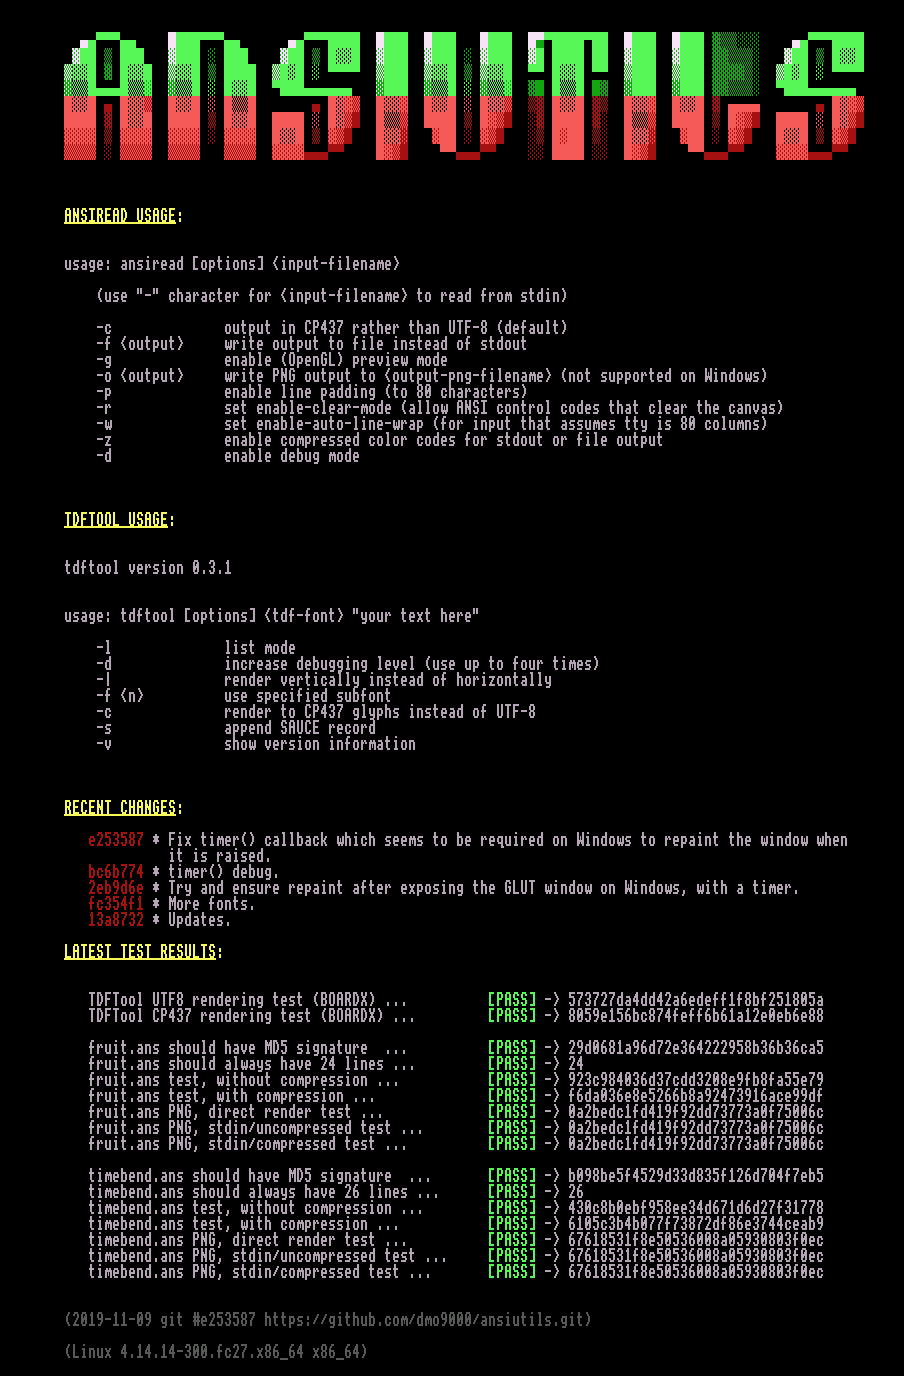
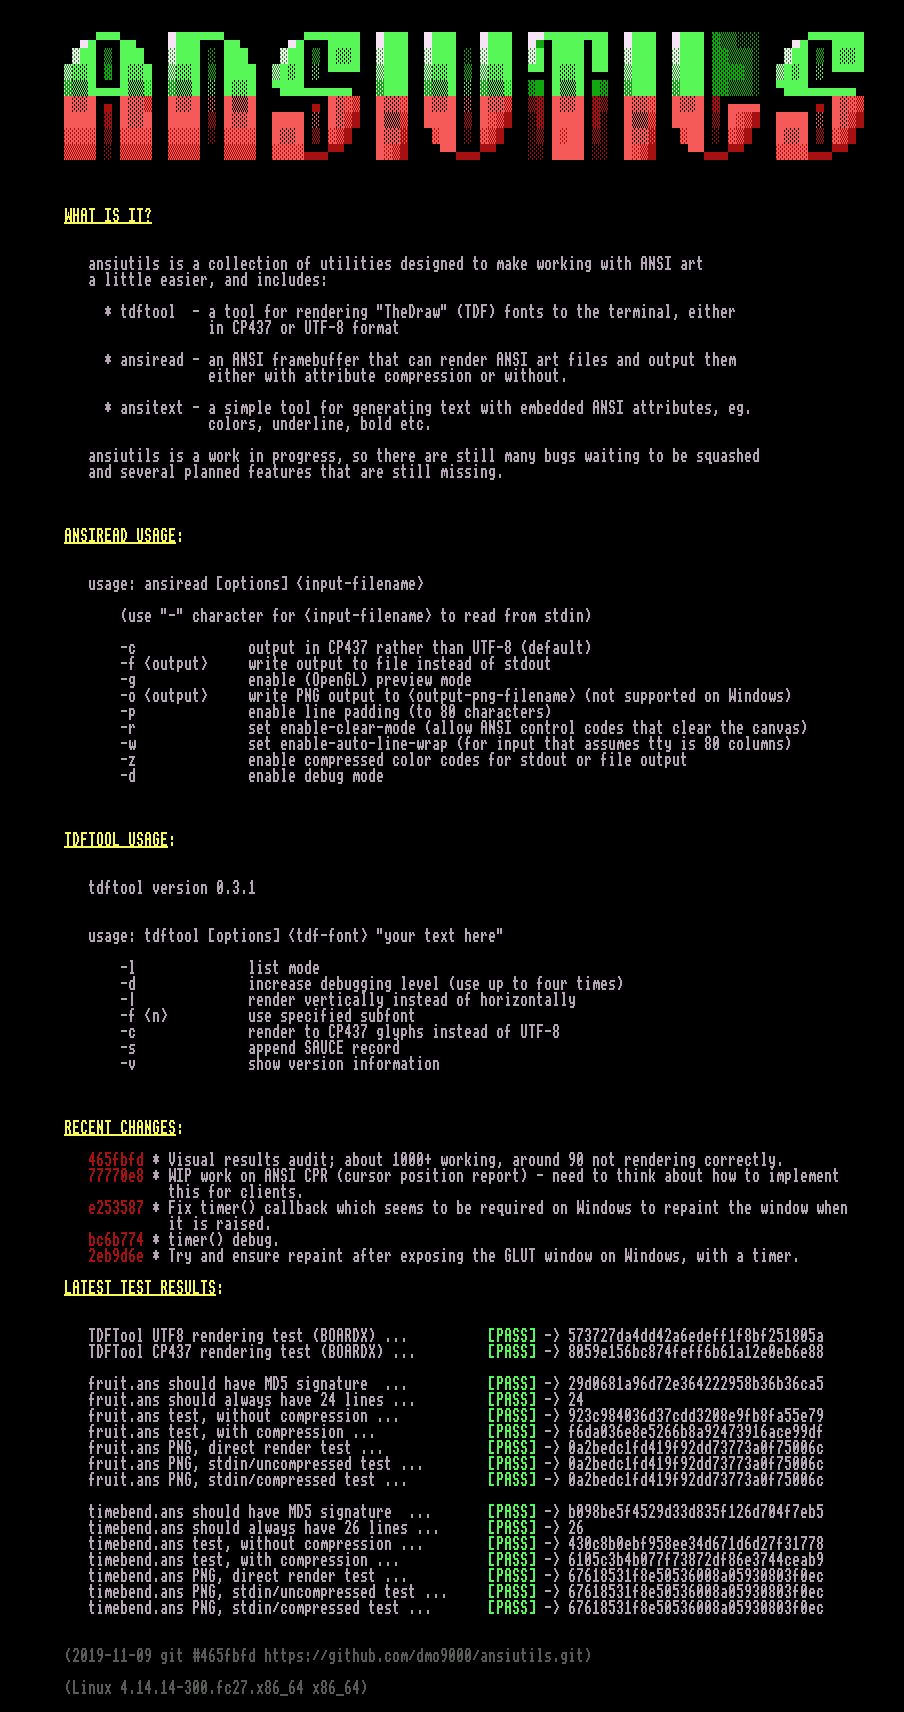
Added a blurb that describes what this all does.

Changed region(s): [[0.0619, 0.0, 0.9602, 1.0], [0.7743, 0.1562, 0.8053, 0.1875], [0.7434, 0.5938, 0.7743, 0.625]]

diff --git a/ansiutils.html b/ansiutils.html
@@ -22,51 +22,72 @@
         <span style="color:white;background-color:black;">                                                                                                      </span>   
 
 
+	<span style="color:yellow;"></span><span style="text-decoration:underline;color:yellow;"></span><span style="text-decoration:underline;font-weight:bold;color:yellow;">WHAT IS IT?</span><span style="font-weight:bold;color:yellow;"></span><span style="color:yellow;"></span>
+
+           
+           ansiutils is a collection of utilities designed to make working with ANSI art
+           a little easier, and includes: 
+           
+             * tdftool  - a tool for rendering &quot;TheDraw&quot; (TDF) fonts to the terminal, either
+                          in CP437 or UTF-8 format
+           
+             * ansiread - an ANSI framebuffer that can render ANSI art files and output them 
+                          either with attribute compression or without. 
+           
+             * ansitext - a simple tool for generating text with embedded ANSI attributes, eg. 
+                          colors, underline, bold etc. 
+           
+           ansiutils is a work in progress, so there are still many bugs waiting to be squashed
+           and several planned features that are still missing. 
+           
+
+
 	<span style="color:yellow;"></span><span style="text-decoration:underline;color:yellow;"></span><span style="text-decoration:underline;font-weight:bold;color:yellow;">ANSIREAD USAGE</span><span style="font-weight:bold;color:yellow;">:</span><span style="color:yellow;"></span>
 
-<span style="color:white;background-color:black;">                                                                                                  </span>
-<span style="color:white;background-color:black;">        usage: ansiread [options] &lt;input-filename&gt;</span>
-<span style="color:white;background-color:black;">        </span>
-<span style="color:white;background-color:black;">            (use &quot;-&quot; character for &lt;input-filename&gt; to read from stdin)</span>
-<span style="color:white;background-color:black;">        </span>
-<span style="color:white;background-color:black;">            -c              output in CP437 rather than UTF-8 (default)</span>
-<span style="color:white;background-color:black;">            -f &lt;output&gt;     write output to file instead of stdout</span>
-<span style="color:white;background-color:black;">            -g              enable (OpenGL) preview mode</span>
-<span style="color:white;background-color:black;">            -o &lt;output&gt;     write PNG output to &lt;output-png-filename&gt; (not supported on Windows)</span>
-<span style="color:white;background-color:black;">            -p              enable line padding (to 80 characters)</span>
-<span style="color:white;background-color:black;">            -r              set enable-clear-mode (allow ANSI control codes that clear the canvas)</span>
-<span style="color:white;background-color:black;">            -w              set enable-auto-line-wrap (for input that assumes tty is 80 columns)</span>
-<span style="color:white;background-color:black;">            -z              enable compressed color codes for stdout or file output</span>
-<span style="color:white;background-color:black;">            -d              enable debug mode</span>
-<span style="color:white;background-color:black;">        </span>
-<span style="color:white;background-color:black;">        </span>
+<span style="color:white;background-color:black;">                                                                                                     </span>
+<span style="color:white;background-color:black;">           usage: ansiread [options] &lt;input-filename&gt;</span>
+<span style="color:white;background-color:black;">           </span>
+<span style="color:white;background-color:black;">               (use &quot;-&quot; character for &lt;input-filename&gt; to read from stdin)</span>
+<span style="color:white;background-color:black;">           </span>
+<span style="color:white;background-color:black;">               -c              output in CP437 rather than UTF-8 (default)</span>
+<span style="color:white;background-color:black;">               -f &lt;output&gt;     write output to file instead of stdout</span>
+<span style="color:white;background-color:black;">               -g              enable (OpenGL) preview mode</span>
+<span style="color:white;background-color:black;">               -o &lt;output&gt;     write PNG output to &lt;output-png-filename&gt; (not supported on Windows)</span>
+<span style="color:white;background-color:black;">               -p              enable line padding (to 80 characters)</span>
+<span style="color:white;background-color:black;">               -r              set enable-clear-mode (allow ANSI control codes that clear the canvas)</span>
+<span style="color:white;background-color:black;">               -w              set enable-auto-line-wrap (for input that assumes tty is 80 columns)</span>
+<span style="color:white;background-color:black;">               -z              enable compressed color codes for stdout or file output</span>
+<span style="color:white;background-color:black;">               -d              enable debug mode</span>
+<span style="color:white;background-color:black;">           </span>
+<span style="color:white;background-color:black;">           </span>
 
 	<span style="color:yellow;"></span><span style="text-decoration:underline;color:yellow;"></span><span style="text-decoration:underline;font-weight:bold;color:yellow;">TDFTOOL USAGE</span><span style="font-weight:bold;color:yellow;">:</span><span style="color:yellow;"></span>
 
-<span style="color:white;background-color:black;">        </span>
-<span style="color:white;background-color:black;">        tdftool version 0.3.1</span>
-<span style="color:white;background-color:black;">        </span>
-<span style="color:white;background-color:black;">                                                                           </span>
-<span style="color:white;background-color:black;">        usage: tdftool [options] &lt;tdf-font&gt; &quot;your text here&quot;</span>
-<span style="color:white;background-color:black;">        </span>
-<span style="color:white;background-color:black;">            -l              list mode</span>
-<span style="color:white;background-color:black;">            -d              increase debugging level (use up to four times)</span>
-<span style="color:white;background-color:black;">            -|              render vertically instead of horizontally</span>
-<span style="color:white;background-color:black;">            -f &lt;n&gt;          use specified subfont</span>
-<span style="color:white;background-color:black;">            -c              render to CP437 glyphs instead of UTF-8</span>
-<span style="color:white;background-color:black;">            -s              append SAUCE record</span>
-<span style="color:white;background-color:black;">            -v              show version information</span>
-<span style="color:white;background-color:black;">        </span>
-<span style="color:white;background-color:black;">        </span>
+<span style="color:white;background-color:black;">           </span>
+<span style="color:white;background-color:black;">           tdftool version 0.3.1</span>
+<span style="color:white;background-color:black;">           </span>
+<span style="color:white;background-color:black;">                                                                              </span>
+<span style="color:white;background-color:black;">           usage: tdftool [options] &lt;tdf-font&gt; &quot;your text here&quot;</span>
+<span style="color:white;background-color:black;">           </span>
+<span style="color:white;background-color:black;">               -l              list mode</span>
+<span style="color:white;background-color:black;">               -d              increase debugging level (use up to four times)</span>
+<span style="color:white;background-color:black;">               -|              render vertically instead of horizontally</span>
+<span style="color:white;background-color:black;">               -f &lt;n&gt;          use specified subfont</span>
+<span style="color:white;background-color:black;">               -c              render to CP437 glyphs instead of UTF-8</span>
+<span style="color:white;background-color:black;">               -s              append SAUCE record</span>
+<span style="color:white;background-color:black;">               -v              show version information</span>
+<span style="color:white;background-color:black;">           </span>
+<span style="color:white;background-color:black;">           </span>
 
 	<span style="color:yellow;"></span><span style="text-decoration:underline;color:yellow;"></span><span style="text-decoration:underline;font-weight:bold;color:yellow;">RECENT CHANGES</span><span style="font-weight:bold;color:yellow;">:</span><span style="color:yellow;"></span>
 
+<span style="color:white;background-color:black;">           </span><span style="color:red;background-color:black;">465fbfd</span><span style="color:white;background-color:black;"> * Visual results audit; about 1000+ working, around 90 not rendering correctly.</span>
+<span style="color:white;background-color:black;">           </span><span style="color:red;background-color:black;">77770e8</span><span style="color:white;background-color:black;"> * WIP work on ANSI CPR (cursor position report) - need to think about how to implement</span>
+<span style="color:white;background-color:black;">                     this for clients.</span>
 <span style="color:white;background-color:black;">           </span><span style="color:red;background-color:black;">e253587</span><span style="color:white;background-color:black;"> * Fix timer() callback which seems to be required on Windows to repaint the window when</span>
 <span style="color:white;background-color:black;">                     it is raised.</span>
 <span style="color:white;background-color:black;">           </span><span style="color:red;background-color:black;">bc6b774</span><span style="color:white;background-color:black;"> * timer() debug.</span>
 <span style="color:white;background-color:black;">           </span><span style="color:red;background-color:black;">2eb9d6e</span><span style="color:white;background-color:black;"> * Try and ensure repaint after exposing the GLUT window on Windows, with a timer.</span>
-<span style="color:white;background-color:black;">           </span><span style="color:red;background-color:black;">fc354f1</span><span style="color:white;background-color:black;"> * More fonts.</span>
-<span style="color:white;background-color:black;">           </span><span style="color:red;background-color:black;">13a8732</span><span style="color:white;background-color:black;"> * Updates.</span>
 
 	<span style="color:yellow;"></span><span style="text-decoration:underline;color:yellow;"></span><span style="text-decoration:underline;font-weight:bold;color:yellow;">LATEST TEST RESULTS</span><span style="font-weight:bold;color:yellow;">:</span><span style="color:yellow;"></span>
 
@@ -91,7 +112,7 @@
 <span style="color:white;background-color:black;">           timebend.ans PNG, stdin/compressed test ...       </span><span style="color:lime;background-color:black;"></span><span style="font-weight:bold;color:lime;background-color:black;">[PASS]</span><span style="font-weight:bold;color:white;background-color:black;"></span><span style="color:white;background-color:black;"> -&gt; 67618531f8e50536008a05930803f0ec </span>
 <span style="color:white;background-color:black;">           </span>
 
-	<span style="color:dimgray;"></span><span style="font-weight:bold;color:dimgray;">(2019-11-09 git #e253587 https://github.com/dmo9000/ansiutils.git)</span><span style="color:dimgray;"></span>
+	<span style="color:dimgray;"></span><span style="font-weight:bold;color:dimgray;">(2019-11-09 git #465fbfd https://github.com/dmo9000/ansiutils.git)</span><span style="color:dimgray;"></span>
 
 	<span style="color:dimgray;"></span><span style="font-weight:bold;color:dimgray;">(Linux 4.14.14-300.fc27.x86_64 x86_64)</span><span style="color:dimgray;"></span>
                                                                                                               
